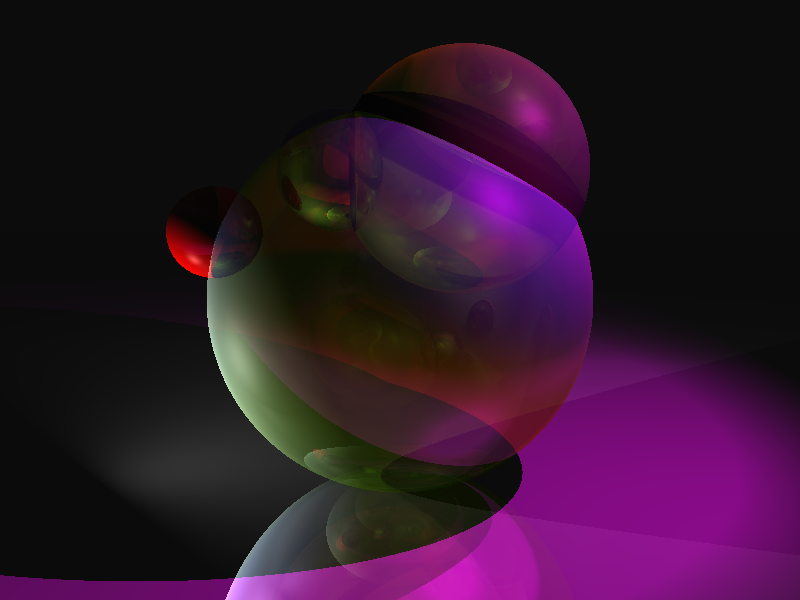
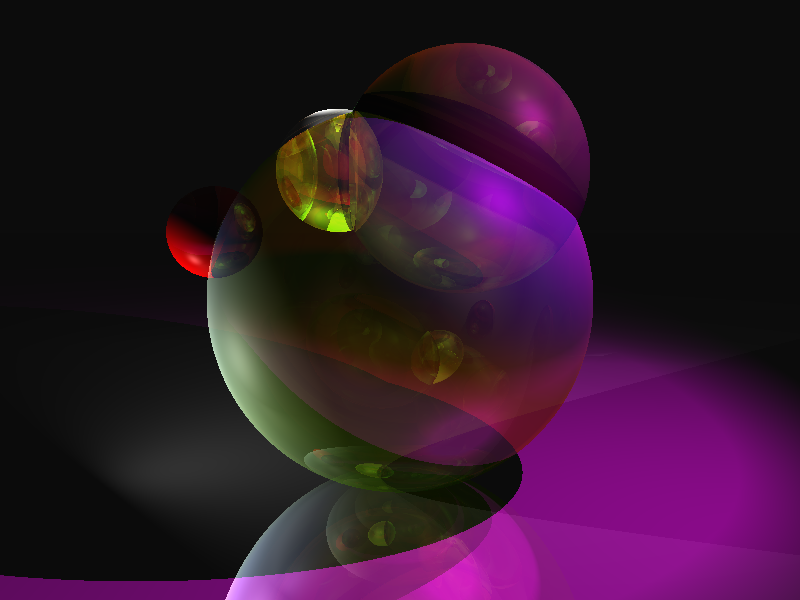
moved nested_sphere file

diff --git a/index.md b/index.md
@@ -5,6 +5,10 @@
 <image src="myExampleScenes/nested_sphere.png" style="width: 90%;"></image>
 This image can be rendered by running `.\a.exe .\myExampleScenes\nested_sphere.txt` in the command line with the project folder as the working directory. This is a scene file I wrote which includes four spheres, the three in the center overlap and the one on the left does not. It is lit by three spot lights, two are white and point from the top and bottom left towards the scene, and one is purple pointing from the top right. This image is a great example of refraction. The large sphere in the middle has an index of refraction of 1, the same as the air, which is why the images of the two spheres inside of it are not distorted. The inner right sphere has an IOR of 1.3, which causes the image of the left sphere intersecting it to distort. We can also see the parameters of spot lights at work here, as the top left spotlight has a much smaller inner cone of light (5 degrees) with less of an angle of gradual falloff (10 degrees) than the other two, which have inner angles of 45 degrees and outer angles of 60 and 90 degrees.
 
+In the current version of the raytracer, any object blocking a light creates a shadow. If we change it so that transmissive objects only dim the lights by their transmissive color, the same scene file gives us the image below.
+
+<image src="myExampleScenes/nested_sphere_partial_shadows.png" style="width: 90%;"></image>
+
 
 # Project Files
 You can view the files on github <a href="https://github.com/mandywyllie/CSCI5607Project3B/">here</a>, or download the project zip <a href="https://github.com/mandywyllie/CSCI5607Project5/blob/main/project5graphics.zip">here</a>.
